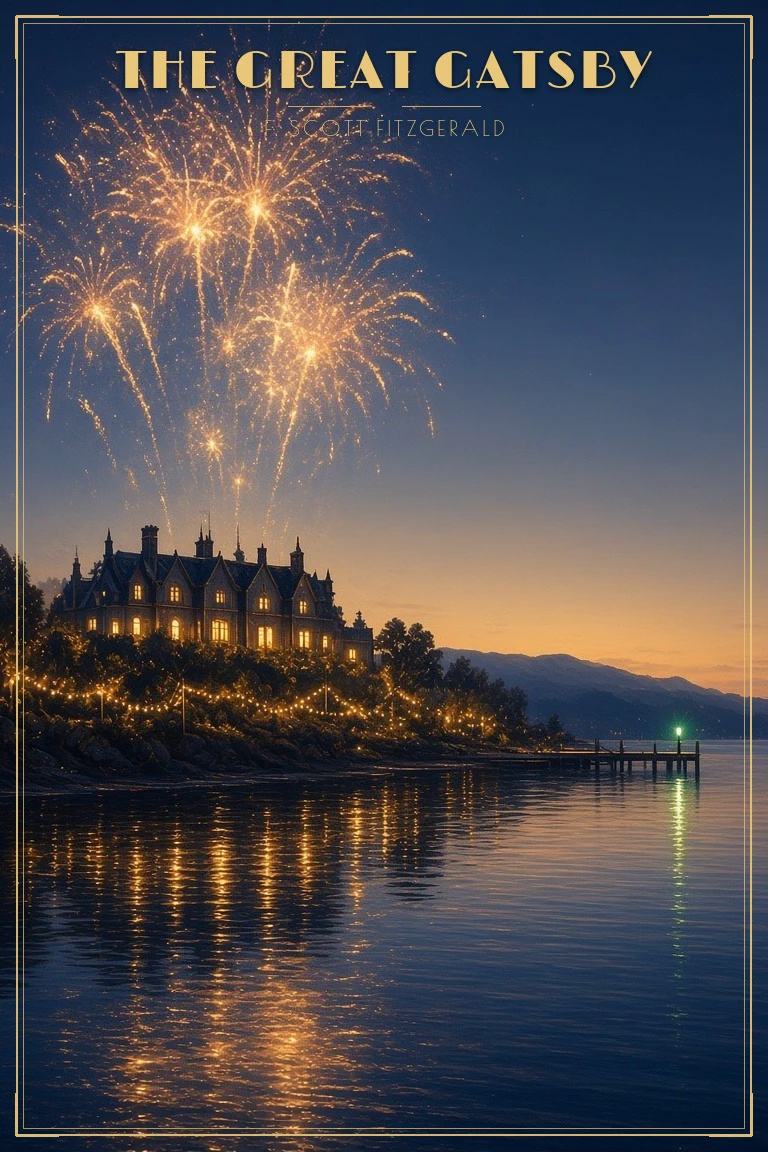
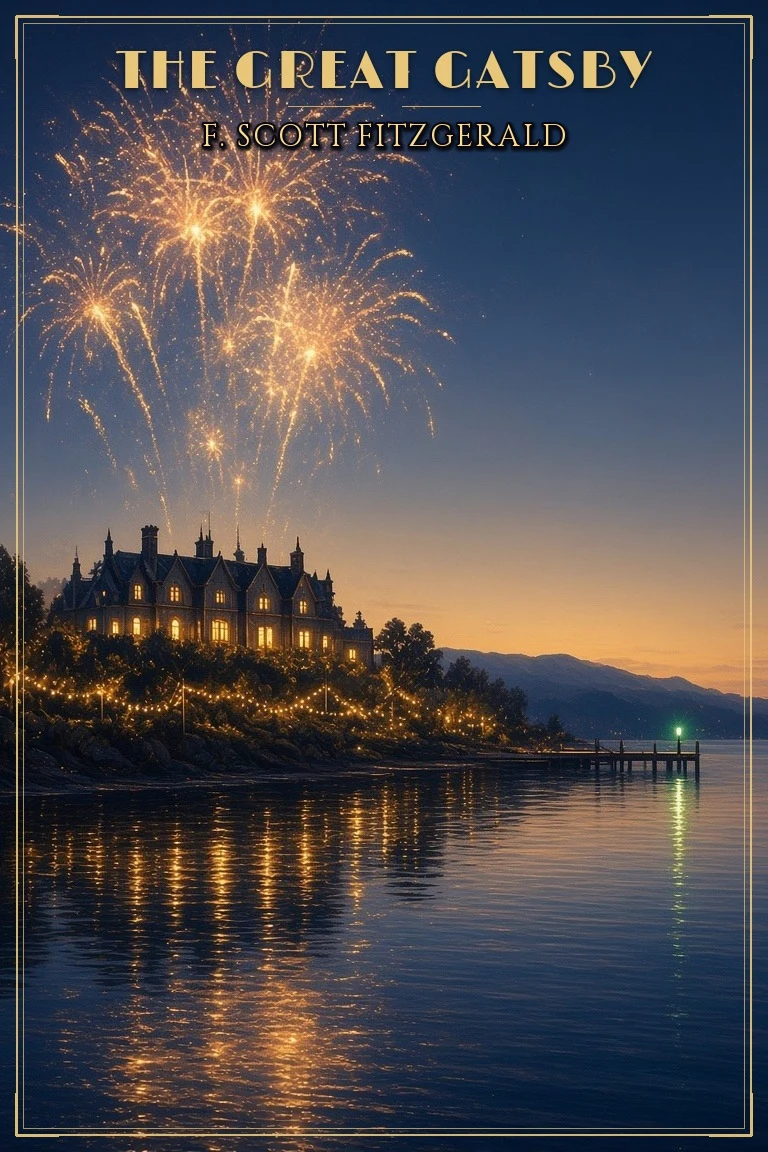
Make the Gatsby author line readable on the fireworks.
Set F. SCOTT FITZGERALD in Cinzel with a dark edge, on the same festive
cover, so the name no longer disappears into the sky.

Changed region(s): [[0.25, 0.0938, 0.75, 0.1562]]

diff --git a/assets/longreads/covers/README.md b/assets/longreads/covers/README.md
@@ -31,14 +31,16 @@ title “ALICE IN WONDERLAND” sits in the sky above the hole, with the
 author line on a dark band, all inside the top of the frame. Gatsby keeps
 the first mansion, dock, and green light, under an indigo-to-gold twilight
 with painted fireworks, strings of party lights, and gold on the water.
-“THE GREAT GATSBY” and the author line are set in an Art Deco face inside
-a thin gold frame. The Home 책 card shows about the top 829 pixels, and
-the preview sheet shows the whole picture.
+“THE GREAT GATSBY” is set in an Art Deco face inside a thin gold frame.
+“F. SCOTT FITZGERALD” is set in Cinzel, in the same gold, with a dark
+edge so the name stays readable against the fireworks. The Home 책 card
+shows about the top 829 pixels, and the preview sheet shows the whole
+picture.
 
 | Current asset | Bytes | Dimensions |
 | --- | ---: | --- |
 | `alice-in-wonderland.webp` | 190,178 | 768 × 1152 |
-| `the-great-gatsby.webp` | 191,996 | 768 × 1152 |
+| `the-great-gatsby.webp` | 184,044 | 768 × 1152 |
 
 New catalog cards and imports use these covers. Existing bundled books lacking
 covers receive their catalog cover asynchronously after Home appears. Existing
